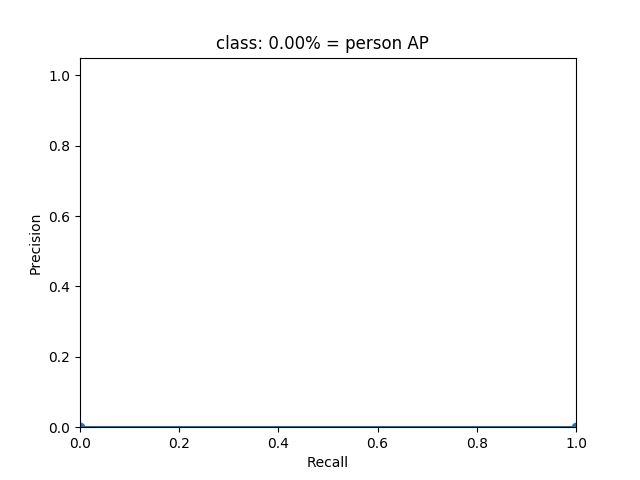
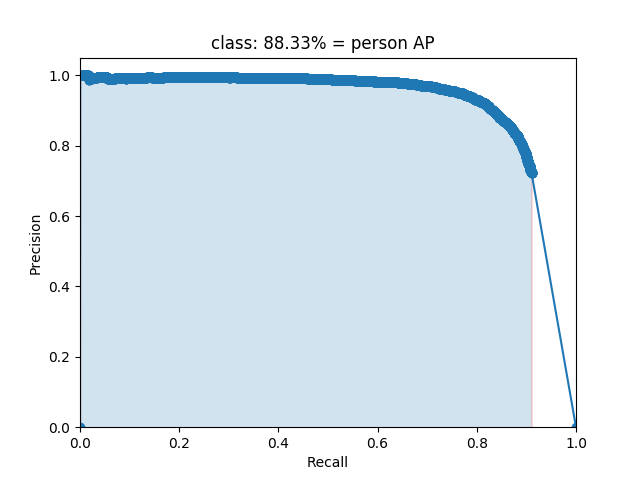
[BAP-AI] yolov3 for person

diff --git a/core/config.py b/core/config.py
@@ -5,8 +5,8 @@
 #
 #   Editor      : VIM
 #   File name   : config.py
-#   Author      : YunYang1994
-#   Created date: 2019-02-28 13:06:54
+#   Author      : Vybt
+#   Created date: 2019-09-24 13:06:54
 #   Description :
 #
 #================================================================
@@ -59,7 +59,7 @@ __C.TEST.DATA_AUG               = False
 __C.TEST.WRITE_IMAGE            = True
 __C.TEST.WRITE_IMAGE_PATH       = "./data/detection/"
 __C.TEST.WRITE_IMAGE_SHOW_LABEL = True
-__C.TEST.WEIGHT_FILE            = "./checkpoint/yolov3_test_loss=1.9803.ckpt-6"
+__C.TEST.WEIGHT_FILE            = "./checkpoint/yolov3_person.ckpt-50"
 __C.TEST.SHOW_LABEL             = True
 __C.TEST.SCORE_THRESHOLD        = 0.3
 __C.TEST.IOU_THRESHOLD          = 0.45

diff --git a/image_demo.py b/image_demo.py
@@ -19,7 +19,7 @@ from PIL import Image
 
 return_elements = ["input/input_data:0", "pred_sbbox/concat_2:0", "pred_mbbox/concat_2:0", "pred_lbbox/concat_2:0"]
 pb_file         = "./yolov3_coco.pb"
-image_path      = "./docs/images/trump-ukraine-meeting.jpg"
+image_path      = "./docs/images/mark.jpeg"
 num_classes     = 1
 input_size      = 416
 graph           = tf.Graph()

diff --git a/freeze_graph.py b/freeze_graph.py
@@ -16,7 +16,7 @@ import tensorflow as tf
 from core.yolov3 import YOLOV3
 
 pb_file = "./yolov3_coco.pb"
-ckpt_file = "./checkpoint/yolov3_test_loss=1.9803.ckpt-6"
+ckpt_file = "./checkpoint/yolov3_person.ckpt-50"
 output_node_names = ["input/input_data", "pred_sbbox/concat_2", "pred_mbbox/concat_2", "pred_lbbox/concat_2"]
 
 with tf.name_scope('input'):
